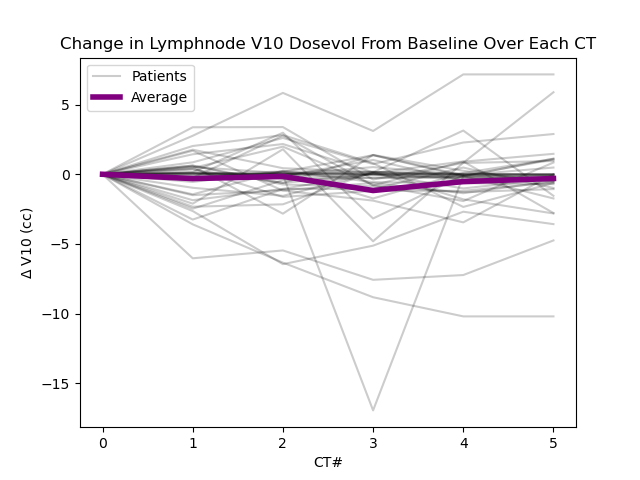
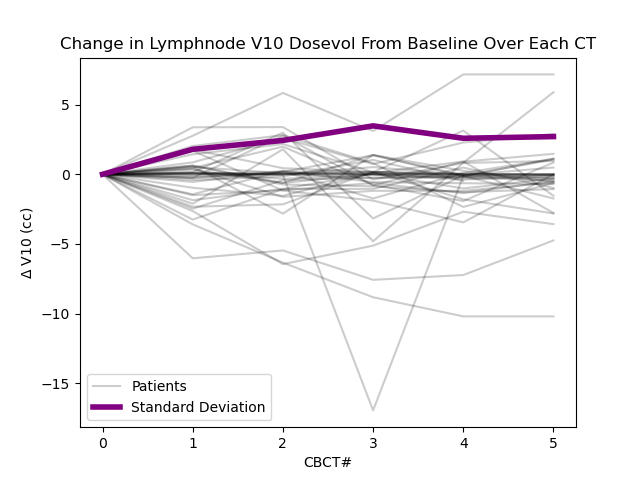
changed from ct# to cbct#, used standard deviation instead of mean for trendline

diff --git a/data_processing_programs/sspaner_lymphnode_study.py b/data_processing_programs/sspaner_lymphnode_study.py
@@ -34,15 +34,15 @@ for i in [2,5,10]:
         group = group.sort_values('CT#')
         plt.plot(group["CT#"], group[f"V{i}_delta"],alpha=0.2,color='black')
 
-    mean_df = (
+    std_df = (
         lymphnode_df
         .groupby("CT#")[f"V{i}_delta"]
-        .mean()
+        .std()
         .reset_index()
     )
     plt.plot([],[],color='black', alpha=0.2, label='Patients')
-    plt.plot(mean_df["CT#"], mean_df[f"V{i}_delta"], linewidth=4,color='purple',label='Average')
-    plt.xlabel('CT#')
+    plt.plot(std_df["CT#"], std_df[f"V{i}_delta"], linewidth=4,color='purple',label='Standard Deviation')
+    plt.xlabel('CBCT#')
     plt.ylabel(fr'$\Delta$ V{i} (cc)')
     plt.title(f'Change in Lymphnode V{i} Dosevol From Baseline Over Each CT')
     plt.legend()

diff --git a/data_processing_programs/sspaner_lymphnode_study_stepwise.py b/data_processing_programs/sspaner_lymphnode_study_stepwise.py
@@ -48,7 +48,7 @@ for i in [2, 5, 10]:
     mean_df = (
         df_plot
         .groupby("CT#")[f"V{i}_step_delta"]
-        .mean()
+        .std()
         .reset_index()
     )
 
@@ -58,10 +58,10 @@ for i in [2, 5, 10]:
         mean_df[f"V{i}_step_delta"],
         linewidth=4,
         color="orange",
-        label="Average"
+        label="Standard Deviation"
     )
 
-    plt.xlabel("CT#")
+    plt.xlabel("CBCT#")
     plt.xticks(range(6))
     plt.xlim(1,5)
     plt.ylabel(fr"$\Delta$ V{i} step (cc)")
